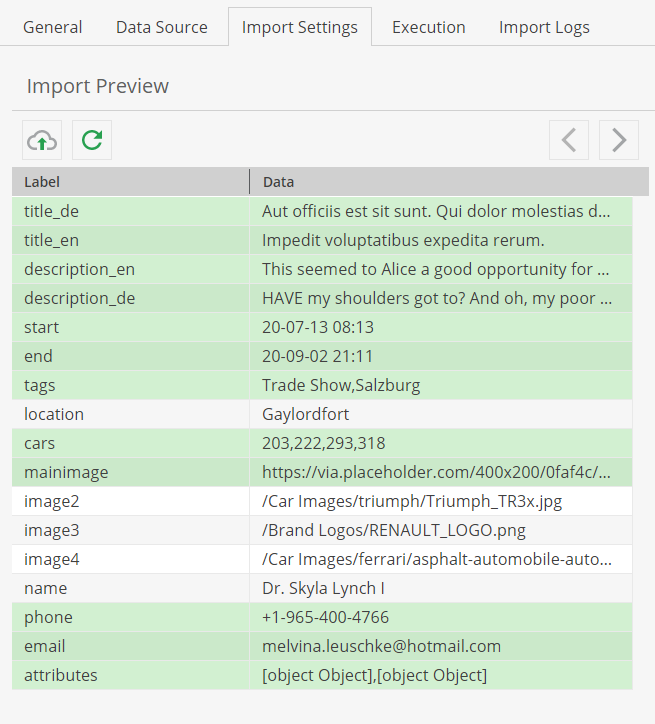
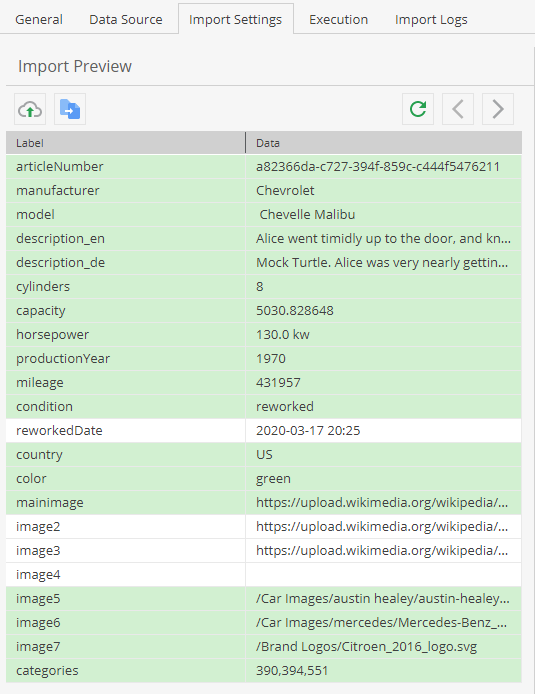
[Preview] Copy data preview from data source (#35)
* copy data preview from data source

* Apply php-cs-fixer changes

diff --git a/src/Resources/public/js/pimcore/configuration/components/importPreview.js b/src/Resources/public/js/pimcore/configuration/components/importPreview.js
@@ -55,8 +55,16 @@ pimcore.plugin.pimcoreDataImporterBundle.configuration.components.importPreview 
                     {
                         xtype: 'button',
                         iconCls: 'pimcore_icon_upload',
+                        tooltip: t('plugin_pimcore_datahub_data_importer_configpanel_preview_data_upload'),
                         handler: this.uploadDialog.bind(this)
                     },{
+                        xtype: 'button',
+                        iconCls: 'pimcore_icon_clone',
+                        tooltip: t('plugin_pimcore_datahub_data_importer_configpanel_preview_data_clone'),
+                        handler: this.copyPreviewFromDataSource.bind(this)
+                    },
+                    '->',
+                    {
                         xtype: 'button',
                         iconCls: 'pimcore_icon_refresh',
                         handler: this.updatePreview.bind(this, null, false)
@@ -120,15 +128,20 @@ pimcore.plugin.pimcoreDataImporterBundle.configuration.components.importPreview 
                     {
                         xtype: 'button',
                         iconCls: 'pimcore_icon_upload',
+                        tooltip: t('plugin_pimcore_datahub_data_importer_configpanel_preview_data_upload'),
                         handler: this.uploadDialog.bind(this)
+                    },{
+                        xtype: 'button',
+                        iconCls: 'pimcore_icon_clone',
+                        tooltip: t('plugin_pimcore_datahub_data_importer_configpanel_preview_data_clone'),
+                        handler: this.copyPreviewFromDataSource.bind(this)
                     },
+                    '->',
                     {
                         xtype: 'button',
                         iconCls: 'pimcore_icon_refresh',
                         handler: this.updatePreview.bind(this, null, false)
-                    },
-                    '->',
-                    {
+                    },{
                         xtype: 'button',
                         iconCls: 'plugin_pimcore_datahub_icon_previous',
                         handler: this.updatePreview.bind(this, 'previous', false)
@@ -193,43 +206,49 @@ pimcore.plugin.pimcoreDataImporterBundle.configuration.components.importPreview 
 
             const response = res.response;
 
-            var jsonData = null;
+            let jsonData = null;
             try {
                 jsonData = Ext.decode(response.responseText);
             } catch (e) {
 
             }
 
-            var date = new Date();
-            var errorMessage = "Timestamp: " + date.toString() + "\n";
-            var errorDetailMessage = "\n" + response.responseText;
+            const errorMessage = this.buildErrorMessage(response, jsonData);
 
-            try {
-                errorMessage += "Status: " + response.status + " | " + response.statusText + "\n";
-                errorMessage += "URL: " + options.url + "\n";
-
-                if(jsonData) {
-                    if (jsonData['message']) {
-                        errorDetailMessage = jsonData['message'];
-                    }
-
-                    if(jsonData['traceString']) {
-                        errorDetailMessage += "\nTrace: \n" + jsonData['traceString'];
-                    }
-                }
-
-                errorMessage += "Message: " + errorDetailMessage;
-            } catch (e) {
-                errorMessage += "\n\n";
-                errorMessage += response.responseText;
-            }
-
-            var message = t("error_general");
+            let message = t("error_general");
             if(jsonData && jsonData['message']) {
                 message = jsonData['message'] + "<br><br>" + t("error_general");
             }
             pimcore.helpers.showNotification(t("error"), message, "error", errorMessage);
         });
+    },
+
+    buildErrorMessage: function(response, jsonData) {
+        const date = new Date();
+        let errorMessage = "Timestamp: " + date.toString() + "\n";
+        let errorDetailMessage = "\n" + response.responseText;
+
+        try {
+            errorMessage += "Status: " + response.status + " | " + response.statusText + "\n";
+            errorMessage += "URL: " + options.url + "\n";
+
+            if(jsonData) {
+                if (jsonData['message']) {
+                    errorDetailMessage = jsonData['message'];
+                }
+
+                if(jsonData['traceString']) {
+                    errorDetailMessage += "\nTrace: \n" + jsonData['traceString'];
+                }
+            }
+
+            errorMessage += "Message: " + errorDetailMessage;
+        } catch (e) {
+            errorMessage += "\n\n";
+            errorMessage += response.responseText;
+        }
+
+        return errorMessage;
     },
 
     updatePreview: function(direction, suppressInvalidError) {
@@ -281,6 +300,40 @@ pimcore.plugin.pimcoreDataImporterBundle.configuration.components.importPreview 
 
         this.configItemInstance.updateColumnHeaders();
 
+    },
+
+    copyPreviewFromDataSource: function() {
+
+        if(!this.checkValidConfiguration(false)) {
+            return;
+        }
+
+        const currentConfig = this.configItemInstance.getSaveData();
+
+        Ext.Ajax.request({
+            url: Routing.generate('pimcore_dataimporter_configdataobject_copypreviewdata'),
+            method: 'POST',
+            params: {
+                config_name: this.configName,
+                current_config: currentConfig
+            },
+            success: function (response) {
+                let data = Ext.decode(response.responseText);
+
+                if(data.success) {
+                    this.updatePreview()
+                } else {
+                    let message = t("error_general");
+                    if(data && data['message']) {
+                        message = data['message'] + "<br><br>" + t("error_general");
+                    }
+
+                    const errorMessage = this.buildErrorMessage(response, data);
+                    pimcore.helpers.showNotification(t("error"), message, "error", errorMessage);
+                }
+
+            }.bind(this)
+        });
     }
 
 });

diff --git a/src/Controller/ConfigDataObjectController.php b/src/Controller/ConfigDataObjectController.php
@@ -19,6 +19,8 @@ use Cron\CronExpression;
 use Pimcore\Bundle\AdminBundle\Helper\QueryParams;
 use Pimcore\Bundle\DataHubBundle\Configuration\Dao;
 use Pimcore\Bundle\DataImporterBundle\DataSource\Interpreter\InterpreterFactory;
+use Pimcore\Bundle\DataImporterBundle\DataSource\Loader\DataLoaderFactory;
+use Pimcore\Bundle\DataImporterBundle\DataSource\Loader\PushLoader;
 use Pimcore\Bundle\DataImporterBundle\Exception\InvalidConfigurationException;
 use Pimcore\Bundle\DataImporterBundle\Mapping\MappingConfigurationFactory;
 use Pimcore\Bundle\DataImporterBundle\Mapping\Type\ClassificationStoreDataTypeService;
@@ -184,6 +186,61 @@ class ConfigDataObjectController extends \Pimcore\Bundle\AdminBundle\Controller\
             File::put($target, file_get_contents($sourcePath));
 
             @unlink($sourcePath);
+
+            return new JsonResponse(['success' => true]);
+        } catch (\Exception $e) {
+            Logger::error($e);
+
+            return $this->adminJson([
+                'success' => false,
+                'message' => $e->getMessage(),
+            ]);
+        }
+    }
+
+    /**
+     * @Route("/copy-preview", methods={"POST"})
+     *
+     * @param Request $request
+     * @param ConfigurationPreparationService $configurationPreparationService
+     * @param DataLoaderFactory $dataLoaderFactory
+     *
+     * @return JsonResponse
+     *
+     * @throws \Exception
+     */
+    public function copyPreviewDataAction(
+        Request $request,
+        ConfigurationPreparationService $configurationPreparationService,
+        DataLoaderFactory $dataLoaderFactory
+    ) {
+        try {
+            $configName = $request->get('config_name');
+            $currentConfig = $request->get('current_config');
+
+            $config = $configurationPreparationService->prepareConfiguration($configName, $currentConfig);
+            $loader = $dataLoaderFactory->loadDataLoader($config['loaderConfig']);
+
+            if ($loader instanceof PushLoader) {
+                throw new \Exception('Cannot copy data from push loader for preview.');
+            }
+
+            $sourcePath = $loader->loadData();
+
+            if (is_file($sourcePath) && filesize($sourcePath) < 1) {
+                throw new \Exception('File is empty!');
+            } elseif (!is_file($sourcePath)) {
+                throw new \Exception('Something went wrong, please check upload_max_filesize and post_max_size in your php.ini and write permissions of your temporary directories.');
+            }
+
+            if (filesize($sourcePath) > 10485760) { //10 MB
+                throw new \Exception('File it too big for preview file, please create a smaller one');
+            }
+
+            $target = $this->getPreviewFilePath($request->get('config_name'));
+            File::put($target, file_get_contents($sourcePath));
+
+            $loader->cleanup();
 
             return new JsonResponse(['success' => true]);
         } catch (\Exception $e) {

diff --git a/doc/03_Configuration/03_Import_Preview.md b/doc/03_Configuration/03_Import_Preview.md
@@ -1,6 +1,6 @@
 # Import Preview
 
-The import configuration allows to upload a preview file which helps
+The import configuration allows to show a preview of the data which helps
 to setup the [mapping configuration](06_Mapping_Configuration/README.md) and
 validate the expected results. 
 
@@ -16,6 +16,10 @@ Any changes in file format settings result in a reloading of the uploaded previe
 file. Reloading the preview file or paging the records will also update the
 processing result preview of the [mapping configuration](06_Mapping_Configuration/README.md).
 
-Preview files are saved per user and import configuration in Pimcores `tmp` directory 
-and should only be a small extract of the actual import files - due to loading
-performance and used storage space.
+There are two options for loading the preview file:
+- Upload an extra preview file. 
+- Copy the preview file from the configured data source (not possible with push data source).   
+
+For both options, preview files are saved per user and import configuration in Pimcores `tmp` directory and 
+should only be a small extract of the actual import files - due to loading performance and used storage space.
+
